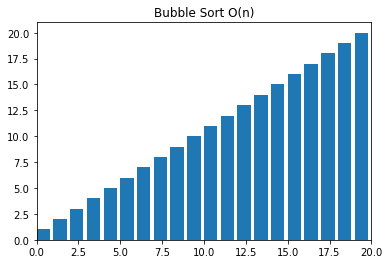
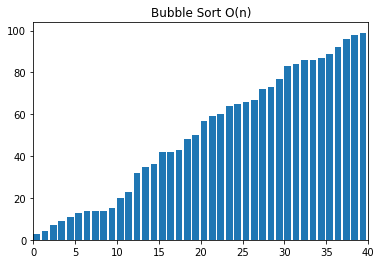
changes

diff --git a/Prod/bubblesort.py b/Prod/bubblesort.py
@@ -39,8 +39,8 @@ for i in range(len(numberList)):
 
 def plotting(): #bubblesort implementation with matplotlib plotting 
     
-    theList = 20 #set the lenght of the list
-    myList = list(range(1, theList + 1)) 
+    theList = 40 #set the lenght of the list
+    myList = [randint(1, 100) for i in range(0, 40)] 
     random.shuffle(myList)
 
     plotting = bubbleSort(myList)
